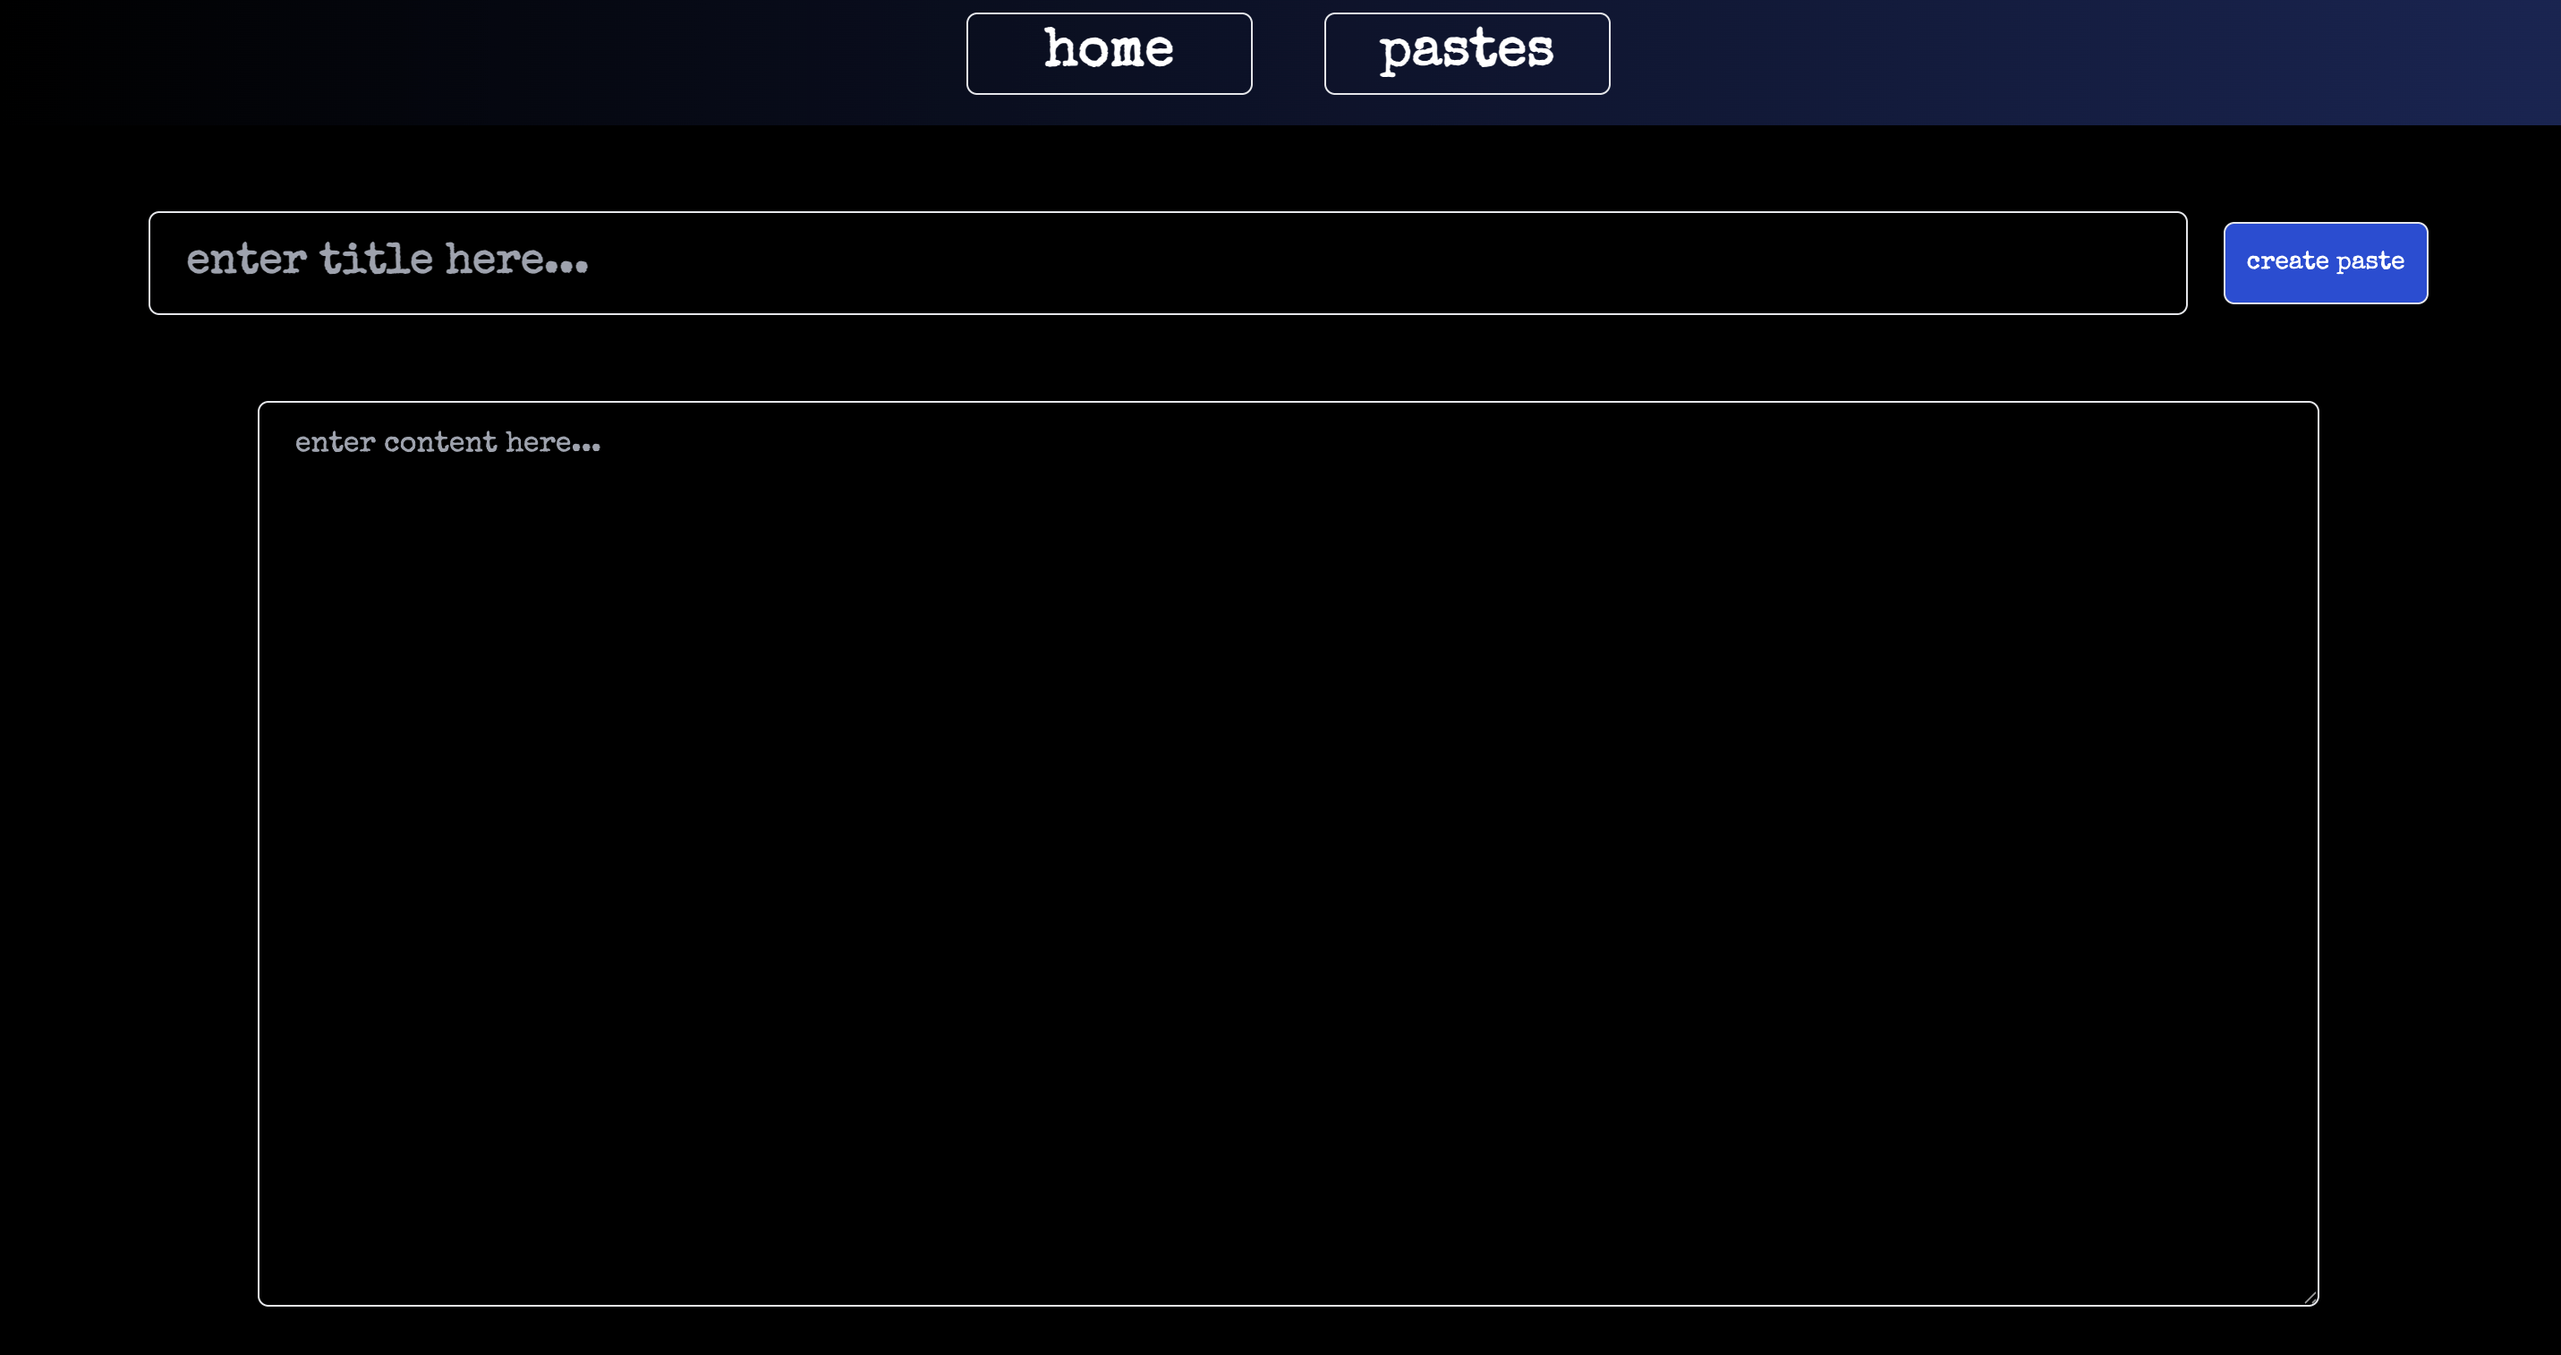
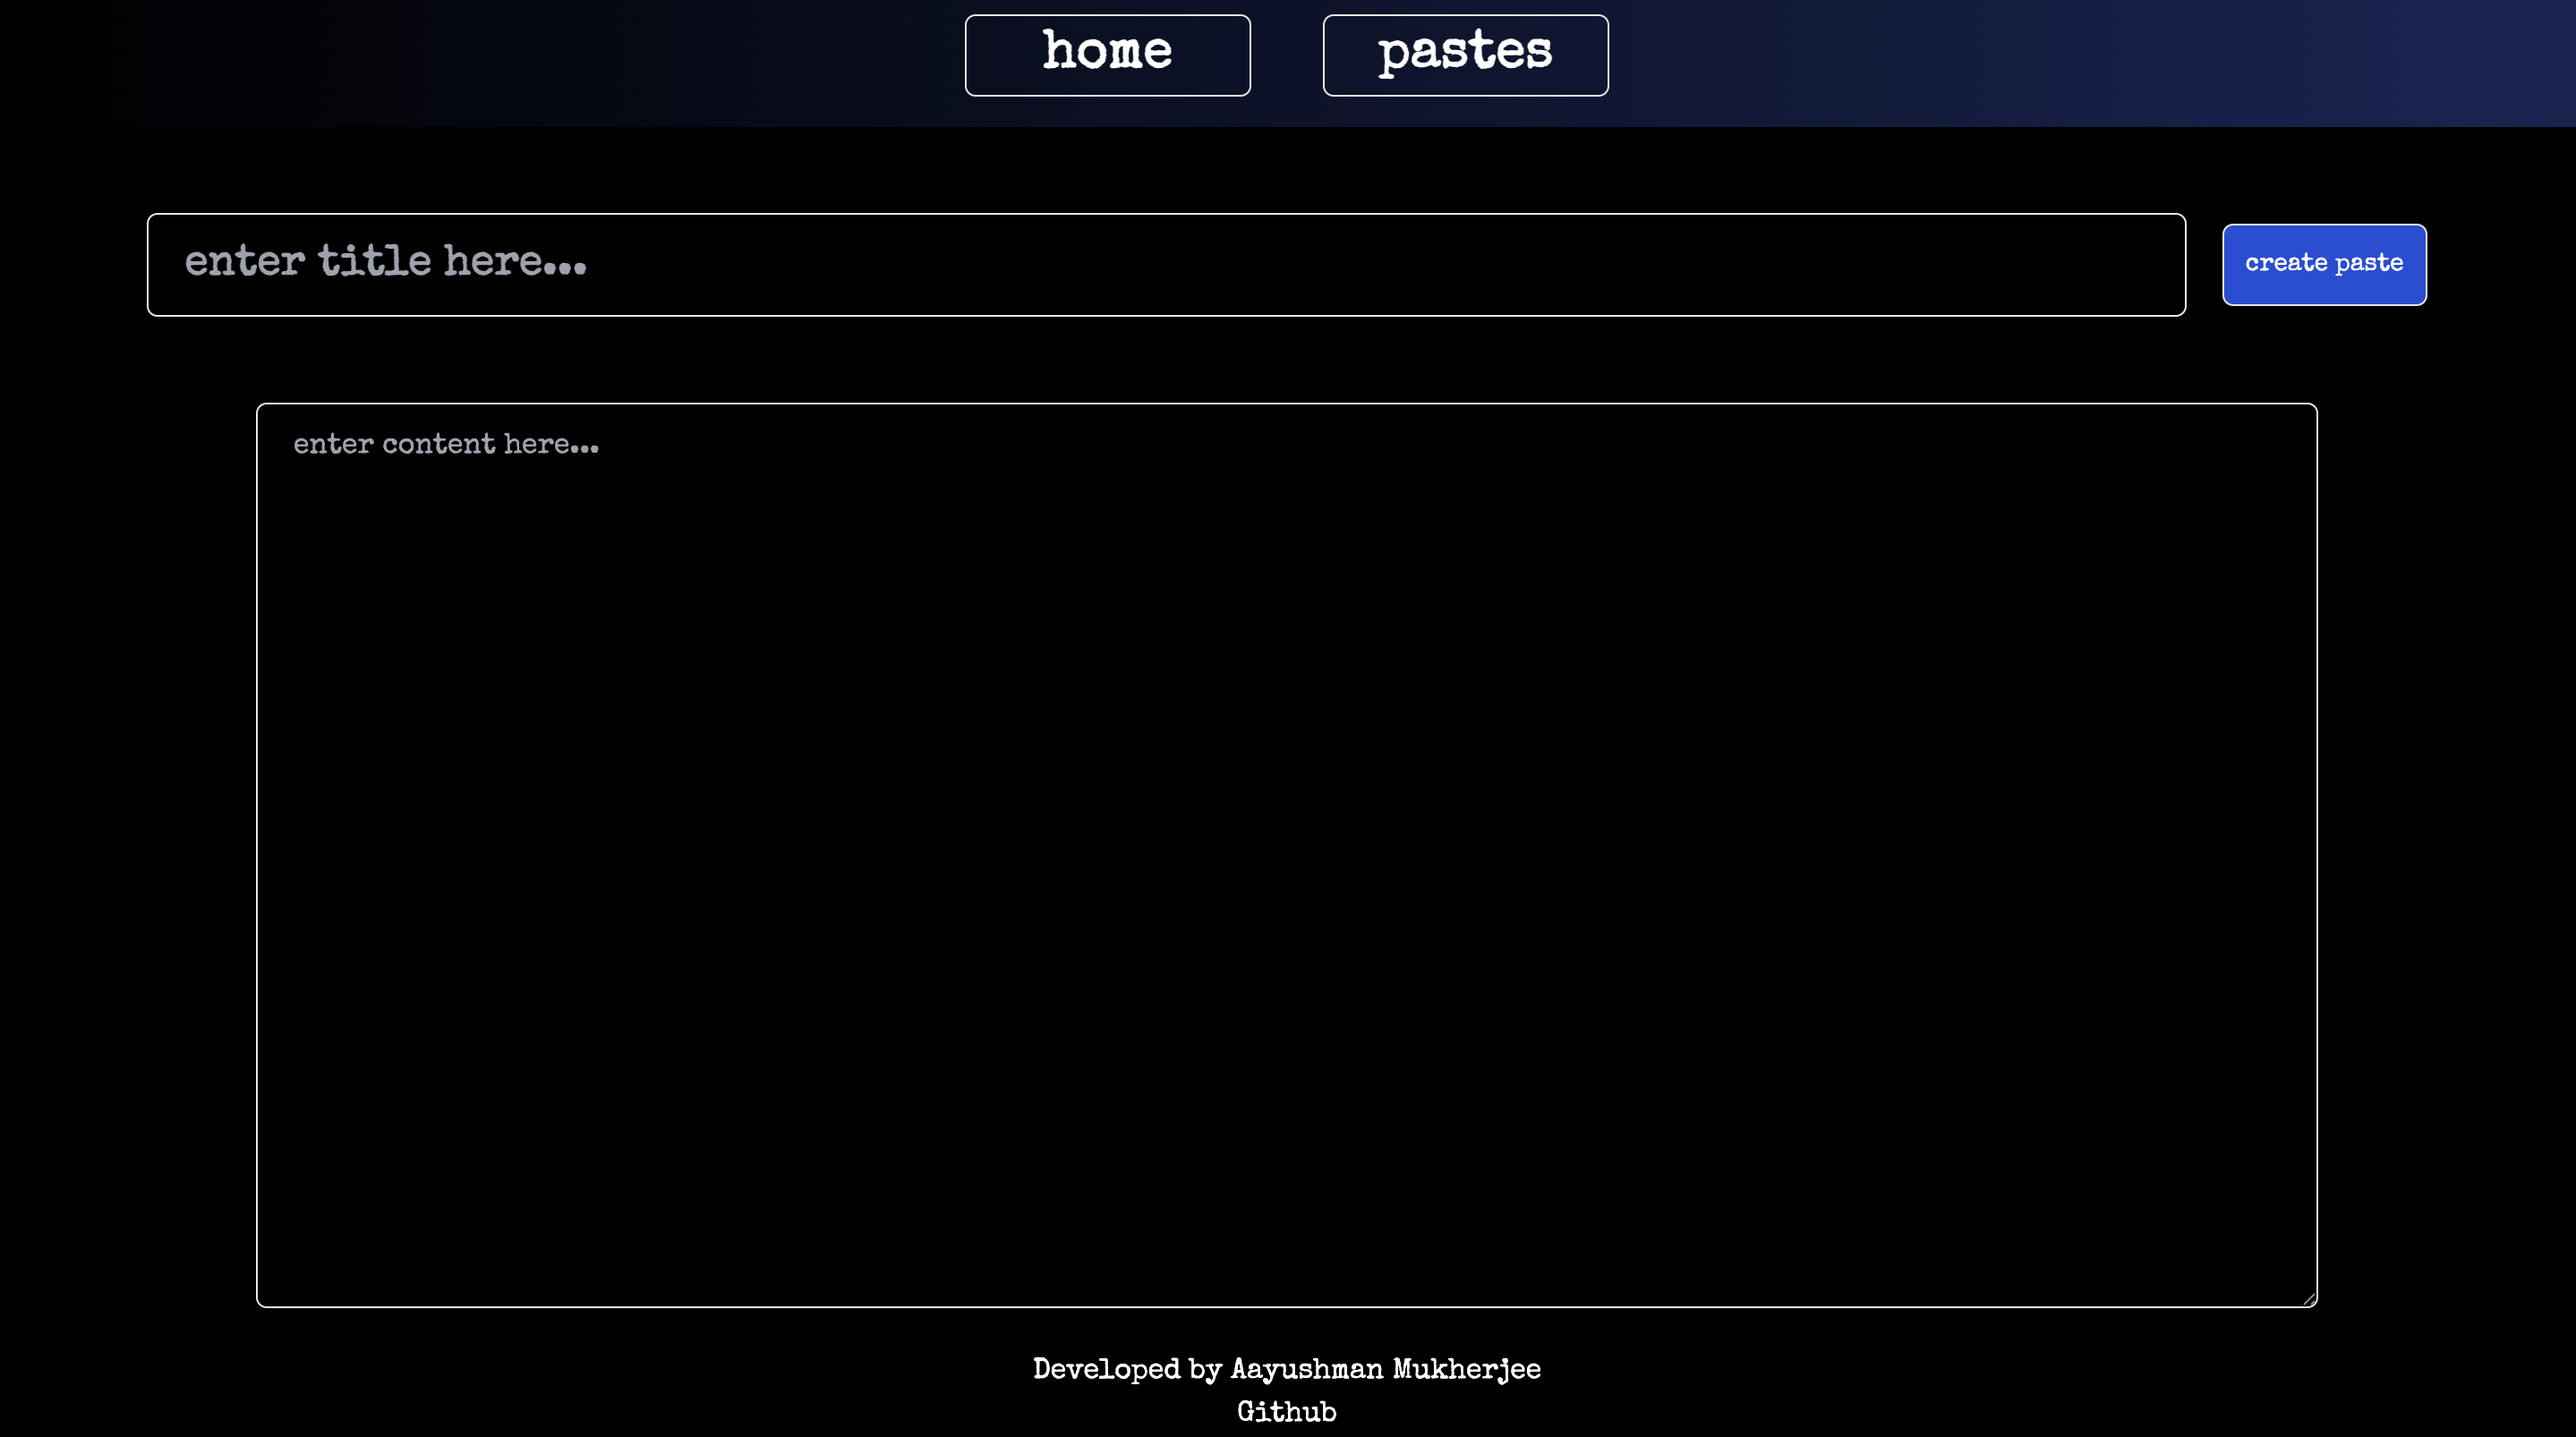
Resolved merge conflicts in demo-assets images

diff --git a/src/components/Paste.jsx b/src/components/Paste.jsx
@@ -24,8 +24,8 @@ const Paste = () => {
   );
   if (paste.length > 0) {
     return (
-      <div className="mt-6 flex justify-center w-full">
-        <div className="flex flex-col w-full items-center">
+      <div className="mt-6 flex justify-center w-full relative">
+        <div className="flex flex-col w-full items-center pb-16">
           <div className="mt-2 mb-16 flex flex-col items-center justify-center gap-4 w-full">
             <div className="flex justify-center items-center border rounded-md p-2  hover:bg-gray-700 hover:scale-110 transition-all duration-200">
               <button onClick={deleteAll} className="text-xl p-1 text-red-500">
@@ -92,12 +92,16 @@ const Paste = () => {
               : ""}
           </div>
         </div>
+        <div className='absolute bottom-0 text-white text-center w-full pb-2'>
+            <p>Developed by Aayushman Mukherjee</p>
+            <p><a href="http:/https://github.com/aayushmanmukherjee" target="_blank" className='hover:underline'>Github</a></p>
+        </div>
       </div>
     );
   }
 
   return (
-    <div className="mt-6 flex justify-center w-full">
+    <div className="mt-6 flex justify-center w-full relative">
       <div className="flex flex-col w-full items-center">
         <div className="mt-2 mb-16 flex flex-col items-center justify-center gap-4 w-full">
           <div className="flex justify-center items-center border rounded-md p-2  hover:bg-gray-700 hover:scale-110 transition-all duration-200">
@@ -161,6 +165,10 @@ const Paste = () => {
             : ""}
         </div>
       </div>
+      <div className='fixed bottom-0 text-white text-center w-full pb-2'>
+            <p>Developed by Aayushman Mukherjee</p>
+            <p><a href="http:/https://github.com/aayushmanmukherjee" target="_blank" className='hover:underline'>Github</a></p>
+        </div>
     </div>
   );
 };

diff --git a/src/components/Home.jsx b/src/components/Home.jsx
@@ -40,17 +40,20 @@ const Home = () => {
     
     
   return (
-    <div className='mt-10 flex flex-col'>
+    <div className='mt-10 flex flex-col relative'>
         <div className='flex justify-center items-center gap-5 m-2'>
             <input type="text" placeholder='enter title here...' value={title} onChange={(e)=>setTitle(e.target.value)} className='bg-transparent border rounded-md text-sm lg:text-2xl font-semibold pl-3 py-1 lg:pl-5 lg:py-3 w-[80%] focus:outline-none'/>
             <button className='text-sm p-1 lg:p-3 bg-blue-700 border rounded-md hover:bg-blue-900 transition-all duration-200' onClick={createPaste}>
                 {pasteid?"update paste":"create paste"}
             </button>
         </div>
-        <div className='flex justify-center w-screen mt-10'>
+        <div className='flex justify-center w-screen mt-10 pb-20'>
             <textarea name="content" placeholder='enter content here...' value={content} onChange={(e)=>setContent(e.target.value)} rows={20} className='bg-transparent w-[80%] border rounded-md focus:outline-none pl-5 py-3' ></textarea>
         </div>
-
+        <div className='absolute bottom-0 text-white text-center w-full pb-2'>
+            <p>Developed by Aayushman Mukherjee</p>
+            <p><a href="http:/https://github.com/aayushmanmukherjee" target="_blank" className='hover:underline'>Github</a></p>
+        </div>
     </div>
   )
 }

diff --git a/src/components/Viewpaste.jsx b/src/components/Viewpaste.jsx
@@ -17,7 +17,7 @@ const Viewpaste = () => {
 
   return (
     <div>
-      <div className="mt-10 flex flex-col">
+      <div className="mt-10 flex flex-col relative">
         {" "}
         <div className="flex justify-center items-center">
           <h2 className="text-center p-5 text-4xl font-extrabold">
@@ -42,15 +42,19 @@ const Viewpaste = () => {
                 {pasteid?"update paste":"create paste"}
             </button> */}
         </div>
-        <div className="flex justify-center w-screen mt-10">
+        <div className="flex justify-center w-screen mt-10 pb-16">
           <textarea
             name="content"
             placeholder="enter content here..."
             value={paste.content}
             rows={20}
             disabled
-            className="bg-transparent w-[80%] border rounded-md focus:outline-none pl-5 py-3 cursor-not-allowed"
+            className="bg-transparent w-[80%] border rounded-md focus:outline-none pl-5 py-3 cursor-not-allowed mb-10"
           ></textarea>
+        </div>
+        <div className='absolute bottom-0 text-white text-center w-full pb-2'>
+            <p>Developed by Aayushman Mukherjee</p>
+            <p><a href="http:/https://github.com/aayushmanmukherjee" target="_blank" className='hover:underline'>Github</a></p>
         </div>
       </div>
     </div>
